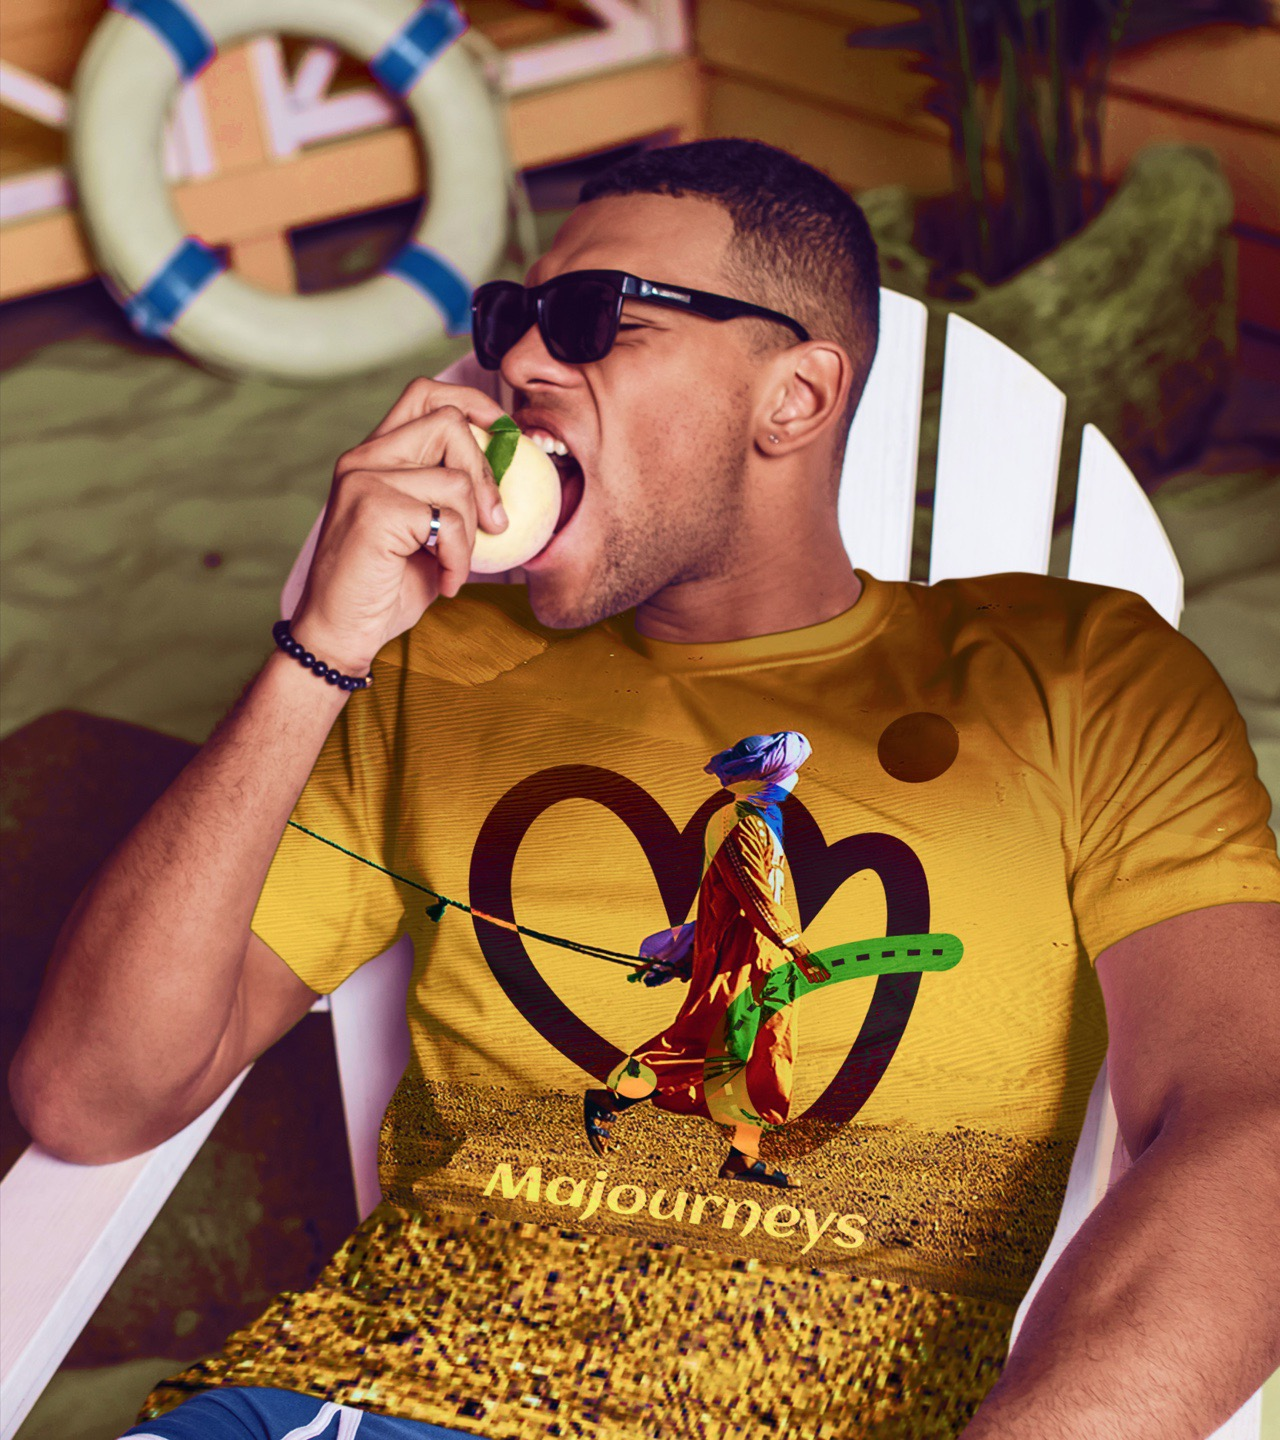
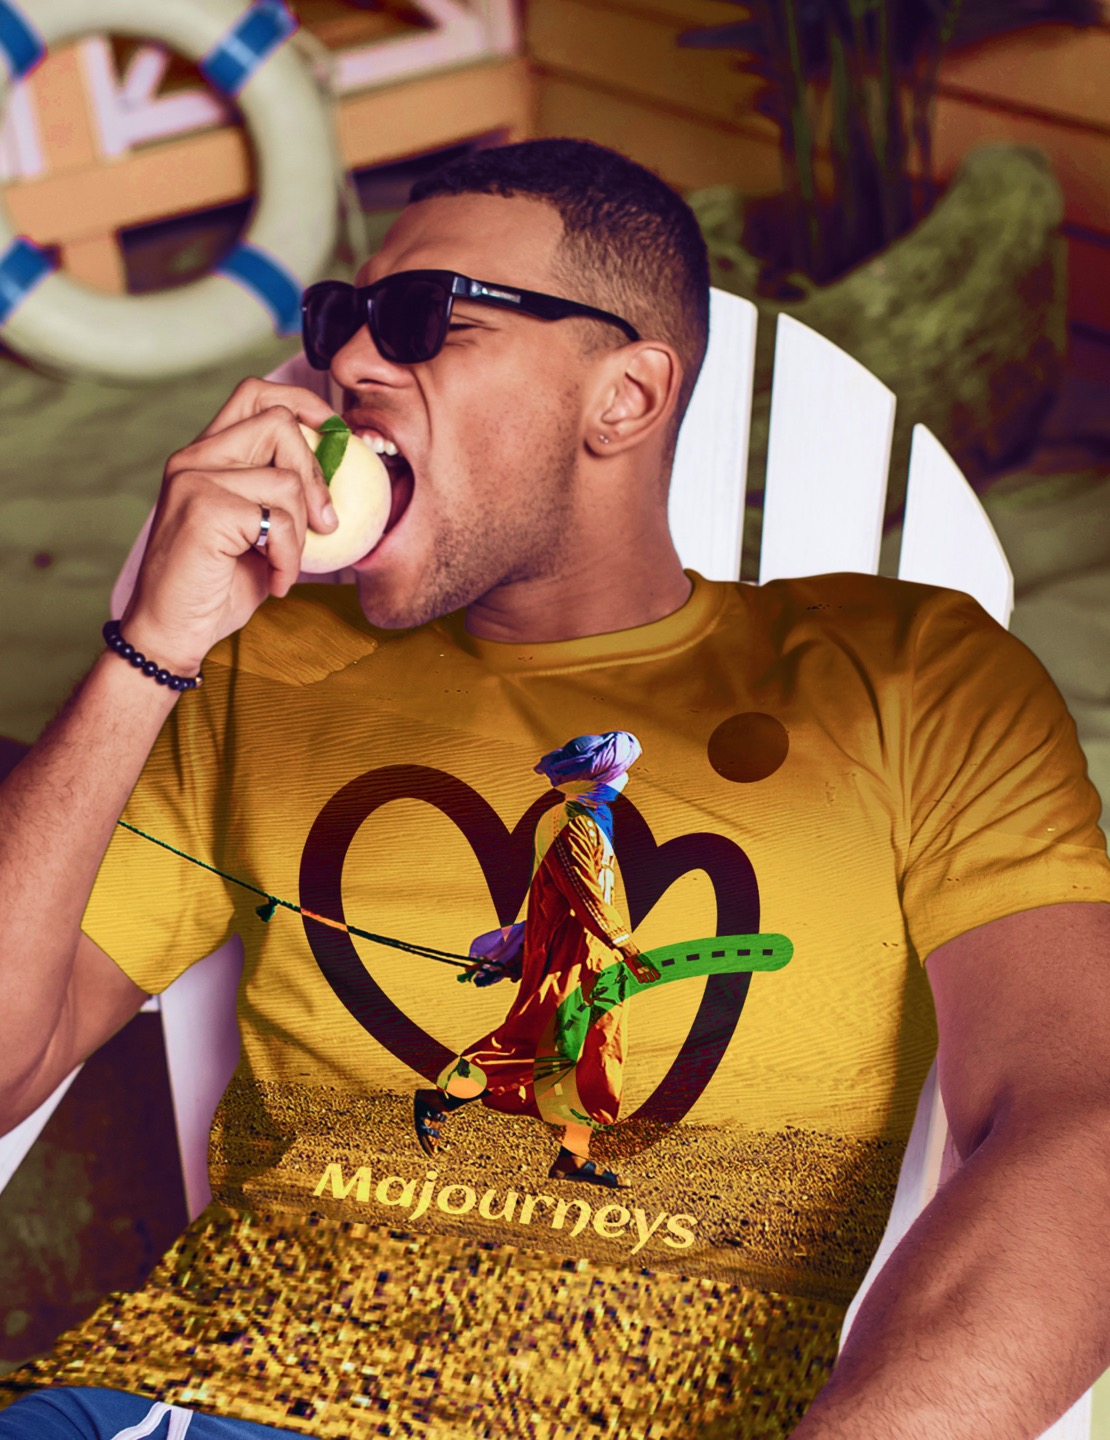
fix: bento card focal points — remove buoy ring, anchor camel scene
- card_lifestyle.jpg re-cropped tighter to the man's right side
- card1 bgPosition: '50% 35%' to frame face + t-shirt design
- card2 bgPosition: '30% center' to anchor camel procession from left
- Both cards now support per-project bgPosition overrides

diff --git a/src/components/Projects.jsx b/src/components/Projects.jsx
@@ -17,10 +17,12 @@ const PROJECTS_DATA = [
         bg: '#1a0f00',
         type: 'image',
         bgImage: '/assets/majourneys_opt/card_lifestyle.jpg',
+        bgPosition: '50% 35%',
         accentColor: '#C58B37',
       },
       card2: {
         bgImage: '/assets/majourneys_opt/460b22213656639.6752417e6a5ab.jpg',
+        bgPosition: '30% center',
         type: 'image',
       },
       card3: {
@@ -479,8 +481,11 @@ export default function Projects() {
                     >
                       {activeProj.bento.card1.bgImage ? (
                         <div 
-                          className="w-full h-full bg-cover bg-center"
-                          style={{ backgroundImage: `url("${activeProj.bento.card1.bgImage}")` }}
+                          className="w-full h-full bg-cover"
+                          style={{
+                            backgroundImage: `url("${activeProj.bento.card1.bgImage}")`,
+                            backgroundPosition: activeProj.bento.card1.bgPosition || 'center center'
+                          }}
                         />
                       ) : activeProj.bento.card1.type === 'tshirt' ? (
                         <div className="flex flex-col items-center justify-center text-center w-full h-full p-2">
@@ -524,9 +529,10 @@ export default function Projects() {
 
                     {/* Card 2: Dunes landscape / background crop */}
                     <div 
-                      className="rounded-xl bg-cover bg-center overflow-hidden relative transition-all duration-300 hover:scale-[1.01]"
+                      className="rounded-xl bg-cover overflow-hidden relative transition-all duration-300 hover:scale-[1.01]"
                       style={{ 
                         backgroundImage: `url("${activeProj.bento.card2.bgImage}")`,
+                        backgroundPosition: activeProj.bento.card2.bgPosition || 'center center',
                         width: '66%'
                       }}
                     >
